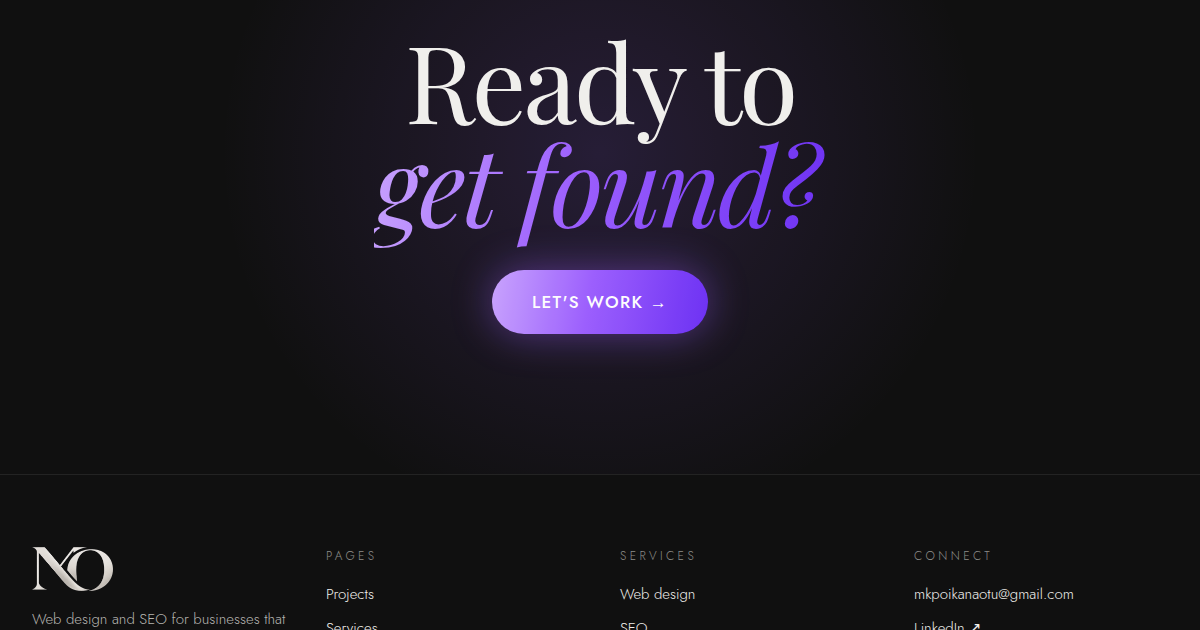
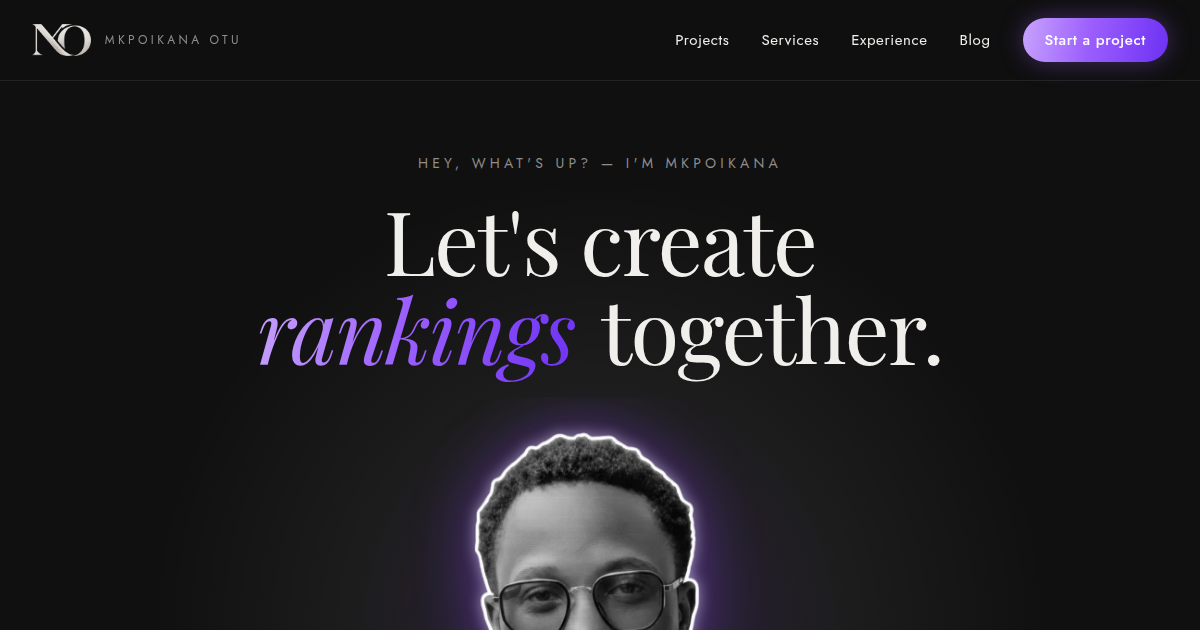
Replace hero portrait with new photo
New transparent cutout served as WebP (73 KB vs 1 MB before), keeping the
black-and-white glow treatment. Also used for the blog author avatar;
link-preview image regenerated.

Claude-Session: https://claude.ai/code/session_01W7bKiPRh1ccaM4XUTsKzTi

diff --git a/blog/click-to-call/index.html b/blog/click-to-call/index.html
@@ -109,7 +109,7 @@ html{scroll-behavior:smooth}
       <p style="font-size:18px;line-height:1.6;font-weight:300;margin:0;color:#C9C8C4;text-wrap:pretty">Web designer and SEO specialist. I build fast, search-ready websites for businesses that run on enquiries.</p>
     </div>
     <div style="order:1;display:flex;justify-content:center;width:100%">
-      <img src="/assets/portrait-cutout.png" alt="Mkpoikana Otu" style="width:100%;max-width:500px;display:block;filter:grayscale(1) contrast(1.08) brightness(1.02);animation:glow 4.5s ease-in-out infinite;-webkit-mask-image:linear-gradient(to bottom,#000 78%,transparent),linear-gradient(to right,transparent,#000 10%,#000 90%,transparent);-webkit-mask-composite:source-in;mask-image:linear-gradient(to bottom,#000 78%,transparent),linear-gradient(to right,transparent,#000 10%,#000 90%,transparent);mask-composite:intersect">
+      <img src="/assets/portrait-mko.webp" alt="Mkpoikana Otu" style="width:100%;max-width:500px;display:block;filter:grayscale(1) contrast(1.08) brightness(1.02);animation:glow 4.5s ease-in-out infinite;-webkit-mask-image:linear-gradient(to bottom,#000 78%,transparent),linear-gradient(to right,transparent,#000 10%,#000 90%,transparent);-webkit-mask-composite:source-in;mask-image:linear-gradient(to bottom,#000 78%,transparent),linear-gradient(to right,transparent,#000 10%,#000 90%,transparent);mask-composite:intersect">
     </div>
     <div style="order:2;max-width:300px;display:flex;flex-direction:column;gap:14px;align-items:{{ sideAlign }};padding-bottom:{{ sidePad2 }};justify-self:{{ rightSelf }}">
       <div style="display:flex;align-items:center;gap:10px;font-size:14px;letter-spacing:.08em;color:#C9C8C4"><span style="width:8px;height:8px;flex-shrink:0;border-radius:50%;background:#B07CFF;box-shadow:0 0 12px #9B5CFF"></span>Available for new projects</div>
@@ -292,7 +292,7 @@ html{scroll-behavior:smooth}
       <sc-if value="{{ p.l }}" hint-placeholder-val="{{ false }}"><ul style="margin:0;padding-left:1.2em;display:flex;flex-direction:column;gap:12px;font-size:19px;line-height:1.7;font-weight:300;color:#D6D5D1"><sc-for list="{{ p.l }}" as="li"><li style="padding-left:.3em">{{ li }}</li></sc-for></ul></sc-if>
     </sc-for>
     <div style="display:flex;align-items:center;gap:16px;padding-top:32px;margin-top:16px;border-top:1px solid #2A2A28">
-      <div style="width:52px;height:52px;border-radius:50%;background:#1A1A1A;border:1px solid #3A3A38;overflow:hidden"><img src="/assets/portrait-cutout.png" alt="" style="width:100%;height:100%;object-fit:cover;object-position:top;filter:grayscale(1)"></div>
+      <div style="width:52px;height:52px;border-radius:50%;background:#1A1A1A;border:1px solid #3A3A38;overflow:hidden"><img src="/assets/portrait-mko.webp" alt="" style="width:100%;height:100%;object-fit:cover;object-position:top;filter:grayscale(1)"></div>
       <div><div style="font-size:17px;font-weight:500">Mkpoikana Otu</div><div style="font-size:14px;color:#8C8C88">Web design & SEO</div></div>
     </div>
   </article>

diff --git a/blog/five-things-every-homepage-needs-above-the-fold/index.html b/blog/five-things-every-homepage-needs-above-the-fold/index.html
@@ -109,7 +109,7 @@ html{scroll-behavior:smooth}
       <p style="font-size:18px;line-height:1.6;font-weight:300;margin:0;color:#C9C8C4;text-wrap:pretty">Web designer and SEO specialist. I build fast, search-ready websites for businesses that run on enquiries.</p>
     </div>
     <div style="order:1;display:flex;justify-content:center;width:100%">
-      <img src="/assets/portrait-cutout.png" alt="Mkpoikana Otu" style="width:100%;max-width:500px;display:block;filter:grayscale(1) contrast(1.08) brightness(1.02);animation:glow 4.5s ease-in-out infinite;-webkit-mask-image:linear-gradient(to bottom,#000 78%,transparent),linear-gradient(to right,transparent,#000 10%,#000 90%,transparent);-webkit-mask-composite:source-in;mask-image:linear-gradient(to bottom,#000 78%,transparent),linear-gradient(to right,transparent,#000 10%,#000 90%,transparent);mask-composite:intersect">
+      <img src="/assets/portrait-mko.webp" alt="Mkpoikana Otu" style="width:100%;max-width:500px;display:block;filter:grayscale(1) contrast(1.08) brightness(1.02);animation:glow 4.5s ease-in-out infinite;-webkit-mask-image:linear-gradient(to bottom,#000 78%,transparent),linear-gradient(to right,transparent,#000 10%,#000 90%,transparent);-webkit-mask-composite:source-in;mask-image:linear-gradient(to bottom,#000 78%,transparent),linear-gradient(to right,transparent,#000 10%,#000 90%,transparent);mask-composite:intersect">
     </div>
     <div style="order:2;max-width:300px;display:flex;flex-direction:column;gap:14px;align-items:{{ sideAlign }};padding-bottom:{{ sidePad2 }};justify-self:{{ rightSelf }}">
       <div style="display:flex;align-items:center;gap:10px;font-size:14px;letter-spacing:.08em;color:#C9C8C4"><span style="width:8px;height:8px;flex-shrink:0;border-radius:50%;background:#B07CFF;box-shadow:0 0 12px #9B5CFF"></span>Available for new projects</div>
@@ -292,7 +292,7 @@ html{scroll-behavior:smooth}
       <sc-if value="{{ p.l }}" hint-placeholder-val="{{ false }}"><ul style="margin:0;padding-left:1.2em;display:flex;flex-direction:column;gap:12px;font-size:19px;line-height:1.7;font-weight:300;color:#D6D5D1"><sc-for list="{{ p.l }}" as="li"><li style="padding-left:.3em">{{ li }}</li></sc-for></ul></sc-if>
     </sc-for>
     <div style="display:flex;align-items:center;gap:16px;padding-top:32px;margin-top:16px;border-top:1px solid #2A2A28">
-      <div style="width:52px;height:52px;border-radius:50%;background:#1A1A1A;border:1px solid #3A3A38;overflow:hidden"><img src="/assets/portrait-cutout.png" alt="" style="width:100%;height:100%;object-fit:cover;object-position:top;filter:grayscale(1)"></div>
+      <div style="width:52px;height:52px;border-radius:50%;background:#1A1A1A;border:1px solid #3A3A38;overflow:hidden"><img src="/assets/portrait-mko.webp" alt="" style="width:100%;height:100%;object-fit:cover;object-position:top;filter:grayscale(1)"></div>
       <div><div style="font-size:17px;font-weight:500">Mkpoikana Otu</div><div style="font-size:14px;color:#8C8C88">Web design & SEO</div></div>
     </div>
   </article>

diff --git a/blog/how-i-plan-a-website-before-opening-figma/index.html b/blog/how-i-plan-a-website-before-opening-figma/index.html
@@ -109,7 +109,7 @@ html{scroll-behavior:smooth}
       <p style="font-size:18px;line-height:1.6;font-weight:300;margin:0;color:#C9C8C4;text-wrap:pretty">Web designer and SEO specialist. I build fast, search-ready websites for businesses that run on enquiries.</p>
     </div>
     <div style="order:1;display:flex;justify-content:center;width:100%">
-      <img src="/assets/portrait-cutout.png" alt="Mkpoikana Otu" style="width:100%;max-width:500px;display:block;filter:grayscale(1) contrast(1.08) brightness(1.02);animation:glow 4.5s ease-in-out infinite;-webkit-mask-image:linear-gradient(to bottom,#000 78%,transparent),linear-gradient(to right,transparent,#000 10%,#000 90%,transparent);-webkit-mask-composite:source-in;mask-image:linear-gradient(to bottom,#000 78%,transparent),linear-gradient(to right,transparent,#000 10%,#000 90%,transparent);mask-composite:intersect">
+      <img src="/assets/portrait-mko.webp" alt="Mkpoikana Otu" style="width:100%;max-width:500px;display:block;filter:grayscale(1) contrast(1.08) brightness(1.02);animation:glow 4.5s ease-in-out infinite;-webkit-mask-image:linear-gradient(to bottom,#000 78%,transparent),linear-gradient(to right,transparent,#000 10%,#000 90%,transparent);-webkit-mask-composite:source-in;mask-image:linear-gradient(to bottom,#000 78%,transparent),linear-gradient(to right,transparent,#000 10%,#000 90%,transparent);mask-composite:intersect">
     </div>
     <div style="order:2;max-width:300px;display:flex;flex-direction:column;gap:14px;align-items:{{ sideAlign }};padding-bottom:{{ sidePad2 }};justify-self:{{ rightSelf }}">
       <div style="display:flex;align-items:center;gap:10px;font-size:14px;letter-spacing:.08em;color:#C9C8C4"><span style="width:8px;height:8px;flex-shrink:0;border-radius:50%;background:#B07CFF;box-shadow:0 0 12px #9B5CFF"></span>Available for new projects</div>
@@ -292,7 +292,7 @@ html{scroll-behavior:smooth}
       <sc-if value="{{ p.l }}" hint-placeholder-val="{{ false }}"><ul style="margin:0;padding-left:1.2em;display:flex;flex-direction:column;gap:12px;font-size:19px;line-height:1.7;font-weight:300;color:#D6D5D1"><sc-for list="{{ p.l }}" as="li"><li style="padding-left:.3em">{{ li }}</li></sc-for></ul></sc-if>
     </sc-for>
     <div style="display:flex;align-items:center;gap:16px;padding-top:32px;margin-top:16px;border-top:1px solid #2A2A28">
-      <div style="width:52px;height:52px;border-radius:50%;background:#1A1A1A;border:1px solid #3A3A38;overflow:hidden"><img src="/assets/portrait-cutout.png" alt="" style="width:100%;height:100%;object-fit:cover;object-position:top;filter:grayscale(1)"></div>
+      <div style="width:52px;height:52px;border-radius:50%;background:#1A1A1A;border:1px solid #3A3A38;overflow:hidden"><img src="/assets/portrait-mko.webp" alt="" style="width:100%;height:100%;object-fit:cover;object-position:top;filter:grayscale(1)"></div>
       <div><div style="font-size:17px;font-weight:500">Mkpoikana Otu</div><div style="font-size:14px;color:#8C8C88">Web design & SEO</div></div>
     </div>
   </article>

diff --git a/blog/index.html b/blog/index.html
@@ -105,7 +105,7 @@ html{scroll-behavior:smooth}
       <p style="font-size:18px;line-height:1.6;font-weight:300;margin:0;color:#C9C8C4;text-wrap:pretty">Web designer and SEO specialist. I build fast, search-ready websites for businesses that run on enquiries.</p>
     </div>
     <div style="order:1;display:flex;justify-content:center;width:100%">
-      <img src="/assets/portrait-cutout.png" alt="Mkpoikana Otu" style="width:100%;max-width:500px;display:block;filter:grayscale(1) contrast(1.08) brightness(1.02);animation:glow 4.5s ease-in-out infinite;-webkit-mask-image:linear-gradient(to bottom,#000 78%,transparent),linear-gradient(to right,transparent,#000 10%,#000 90%,transparent);-webkit-mask-composite:source-in;mask-image:linear-gradient(to bottom,#000 78%,transparent),linear-gradient(to right,transparent,#000 10%,#000 90%,transparent);mask-composite:intersect">
+      <img src="/assets/portrait-mko.webp" alt="Mkpoikana Otu" style="width:100%;max-width:500px;display:block;filter:grayscale(1) contrast(1.08) brightness(1.02);animation:glow 4.5s ease-in-out infinite;-webkit-mask-image:linear-gradient(to bottom,#000 78%,transparent),linear-gradient(to right,transparent,#000 10%,#000 90%,transparent);-webkit-mask-composite:source-in;mask-image:linear-gradient(to bottom,#000 78%,transparent),linear-gradient(to right,transparent,#000 10%,#000 90%,transparent);mask-composite:intersect">
     </div>
     <div style="order:2;max-width:300px;display:flex;flex-direction:column;gap:14px;align-items:{{ sideAlign }};padding-bottom:{{ sidePad2 }};justify-self:{{ rightSelf }}">
       <div style="display:flex;align-items:center;gap:10px;font-size:14px;letter-spacing:.08em;color:#C9C8C4"><span style="width:8px;height:8px;flex-shrink:0;border-radius:50%;background:#B07CFF;box-shadow:0 0 12px #9B5CFF"></span>Available for new projects</div>
@@ -288,7 +288,7 @@ html{scroll-behavior:smooth}
       <sc-if value="{{ p.l }}" hint-placeholder-val="{{ false }}"><ul style="margin:0;padding-left:1.2em;display:flex;flex-direction:column;gap:12px;font-size:19px;line-height:1.7;font-weight:300;color:#D6D5D1"><sc-for list="{{ p.l }}" as="li"><li style="padding-left:.3em">{{ li }}</li></sc-for></ul></sc-if>
     </sc-for>
     <div style="display:flex;align-items:center;gap:16px;padding-top:32px;margin-top:16px;border-top:1px solid #2A2A28">
-      <div style="width:52px;height:52px;border-radius:50%;background:#1A1A1A;border:1px solid #3A3A38;overflow:hidden"><img src="/assets/portrait-cutout.png" alt="" style="width:100%;height:100%;object-fit:cover;object-position:top;filter:grayscale(1)"></div>
+      <div style="width:52px;height:52px;border-radius:50%;background:#1A1A1A;border:1px solid #3A3A38;overflow:hidden"><img src="/assets/portrait-mko.webp" alt="" style="width:100%;height:100%;object-fit:cover;object-position:top;filter:grayscale(1)"></div>
       <div><div style="font-size:17px;font-weight:500">Mkpoikana Otu</div><div style="font-size:14px;color:#8C8C88">Web design & SEO</div></div>
     </div>
   </article>

diff --git a/blog/is-seo-a-one-time-thing/index.html b/blog/is-seo-a-one-time-thing/index.html
@@ -109,7 +109,7 @@ html{scroll-behavior:smooth}
       <p style="font-size:18px;line-height:1.6;font-weight:300;margin:0;color:#C9C8C4;text-wrap:pretty">Web designer and SEO specialist. I build fast, search-ready websites for businesses that run on enquiries.</p>
     </div>
     <div style="order:1;display:flex;justify-content:center;width:100%">
-      <img src="/assets/portrait-cutout.png" alt="Mkpoikana Otu" style="width:100%;max-width:500px;display:block;filter:grayscale(1) contrast(1.08) brightness(1.02);animation:glow 4.5s ease-in-out infinite;-webkit-mask-image:linear-gradient(to bottom,#000 78%,transparent),linear-gradient(to right,transparent,#000 10%,#000 90%,transparent);-webkit-mask-composite:source-in;mask-image:linear-gradient(to bottom,#000 78%,transparent),linear-gradient(to right,transparent,#000 10%,#000 90%,transparent);mask-composite:intersect">
+      <img src="/assets/portrait-mko.webp" alt="Mkpoikana Otu" style="width:100%;max-width:500px;display:block;filter:grayscale(1) contrast(1.08) brightness(1.02);animation:glow 4.5s ease-in-out infinite;-webkit-mask-image:linear-gradient(to bottom,#000 78%,transparent),linear-gradient(to right,transparent,#000 10%,#000 90%,transparent);-webkit-mask-composite:source-in;mask-image:linear-gradient(to bottom,#000 78%,transparent),linear-gradient(to right,transparent,#000 10%,#000 90%,transparent);mask-composite:intersect">
     </div>
     <div style="order:2;max-width:300px;display:flex;flex-direction:column;gap:14px;align-items:{{ sideAlign }};padding-bottom:{{ sidePad2 }};justify-self:{{ rightSelf }}">
       <div style="display:flex;align-items:center;gap:10px;font-size:14px;letter-spacing:.08em;color:#C9C8C4"><span style="width:8px;height:8px;flex-shrink:0;border-radius:50%;background:#B07CFF;box-shadow:0 0 12px #9B5CFF"></span>Available for new projects</div>
@@ -292,7 +292,7 @@ html{scroll-behavior:smooth}
       <sc-if value="{{ p.l }}" hint-placeholder-val="{{ false }}"><ul style="margin:0;padding-left:1.2em;display:flex;flex-direction:column;gap:12px;font-size:19px;line-height:1.7;font-weight:300;color:#D6D5D1"><sc-for list="{{ p.l }}" as="li"><li style="padding-left:.3em">{{ li }}</li></sc-for></ul></sc-if>
     </sc-for>
     <div style="display:flex;align-items:center;gap:16px;padding-top:32px;margin-top:16px;border-top:1px solid #2A2A28">
-      <div style="width:52px;height:52px;border-radius:50%;background:#1A1A1A;border:1px solid #3A3A38;overflow:hidden"><img src="/assets/portrait-cutout.png" alt="" style="width:100%;height:100%;object-fit:cover;object-position:top;filter:grayscale(1)"></div>
+      <div style="width:52px;height:52px;border-radius:50%;background:#1A1A1A;border:1px solid #3A3A38;overflow:hidden"><img src="/assets/portrait-mko.webp" alt="" style="width:100%;height:100%;object-fit:cover;object-position:top;filter:grayscale(1)"></div>
       <div><div style="font-size:17px;font-weight:500">Mkpoikana Otu</div><div style="font-size:14px;color:#8C8C88">Web design & SEO</div></div>
     </div>
   </article>

diff --git a/blog/schema-markup-explained-without-the-jargon/index.html b/blog/schema-markup-explained-without-the-jargon/index.html
@@ -109,7 +109,7 @@ html{scroll-behavior:smooth}
       <p style="font-size:18px;line-height:1.6;font-weight:300;margin:0;color:#C9C8C4;text-wrap:pretty">Web designer and SEO specialist. I build fast, search-ready websites for businesses that run on enquiries.</p>
     </div>
     <div style="order:1;display:flex;justify-content:center;width:100%">
-      <img src="/assets/portrait-cutout.png" alt="Mkpoikana Otu" style="width:100%;max-width:500px;display:block;filter:grayscale(1) contrast(1.08) brightness(1.02);animation:glow 4.5s ease-in-out infinite;-webkit-mask-image:linear-gradient(to bottom,#000 78%,transparent),linear-gradient(to right,transparent,#000 10%,#000 90%,transparent);-webkit-mask-composite:source-in;mask-image:linear-gradient(to bottom,#000 78%,transparent),linear-gradient(to right,transparent,#000 10%,#000 90%,transparent);mask-composite:intersect">
+      <img src="/assets/portrait-mko.webp" alt="Mkpoikana Otu" style="width:100%;max-width:500px;display:block;filter:grayscale(1) contrast(1.08) brightness(1.02);animation:glow 4.5s ease-in-out infinite;-webkit-mask-image:linear-gradient(to bottom,#000 78%,transparent),linear-gradient(to right,transparent,#000 10%,#000 90%,transparent);-webkit-mask-composite:source-in;mask-image:linear-gradient(to bottom,#000 78%,transparent),linear-gradient(to right,transparent,#000 10%,#000 90%,transparent);mask-composite:intersect">
     </div>
     <div style="order:2;max-width:300px;display:flex;flex-direction:column;gap:14px;align-items:{{ sideAlign }};padding-bottom:{{ sidePad2 }};justify-self:{{ rightSelf }}">
       <div style="display:flex;align-items:center;gap:10px;font-size:14px;letter-spacing:.08em;color:#C9C8C4"><span style="width:8px;height:8px;flex-shrink:0;border-radius:50%;background:#B07CFF;box-shadow:0 0 12px #9B5CFF"></span>Available for new projects</div>
@@ -292,7 +292,7 @@ html{scroll-behavior:smooth}
       <sc-if value="{{ p.l }}" hint-placeholder-val="{{ false }}"><ul style="margin:0;padding-left:1.2em;display:flex;flex-direction:column;gap:12px;font-size:19px;line-height:1.7;font-weight:300;color:#D6D5D1"><sc-for list="{{ p.l }}" as="li"><li style="padding-left:.3em">{{ li }}</li></sc-for></ul></sc-if>
     </sc-for>
     <div style="display:flex;align-items:center;gap:16px;padding-top:32px;margin-top:16px;border-top:1px solid #2A2A28">
-      <div style="width:52px;height:52px;border-radius:50%;background:#1A1A1A;border:1px solid #3A3A38;overflow:hidden"><img src="/assets/portrait-cutout.png" alt="" style="width:100%;height:100%;object-fit:cover;object-position:top;filter:grayscale(1)"></div>
+      <div style="width:52px;height:52px;border-radius:50%;background:#1A1A1A;border:1px solid #3A3A38;overflow:hidden"><img src="/assets/portrait-mko.webp" alt="" style="width:100%;height:100%;object-fit:cover;object-position:top;filter:grayscale(1)"></div>
       <div><div style="font-size:17px;font-weight:500">Mkpoikana Otu</div><div style="font-size:14px;color:#8C8C88">Web design & SEO</div></div>
     </div>
   </article>

diff --git a/blog/speed-is-a-design-decision/index.html b/blog/speed-is-a-design-decision/index.html
@@ -109,7 +109,7 @@ html{scroll-behavior:smooth}
       <p style="font-size:18px;line-height:1.6;font-weight:300;margin:0;color:#C9C8C4;text-wrap:pretty">Web designer and SEO specialist. I build fast, search-ready websites for businesses that run on enquiries.</p>
     </div>
     <div style="order:1;display:flex;justify-content:center;width:100%">
-      <img src="/assets/portrait-cutout.png" alt="Mkpoikana Otu" style="width:100%;max-width:500px;display:block;filter:grayscale(1) contrast(1.08) brightness(1.02);animation:glow 4.5s ease-in-out infinite;-webkit-mask-image:linear-gradient(to bottom,#000 78%,transparent),linear-gradient(to right,transparent,#000 10%,#000 90%,transparent);-webkit-mask-composite:source-in;mask-image:linear-gradient(to bottom,#000 78%,transparent),linear-gradient(to right,transparent,#000 10%,#000 90%,transparent);mask-composite:intersect">
+      <img src="/assets/portrait-mko.webp" alt="Mkpoikana Otu" style="width:100%;max-width:500px;display:block;filter:grayscale(1) contrast(1.08) brightness(1.02);animation:glow 4.5s ease-in-out infinite;-webkit-mask-image:linear-gradient(to bottom,#000 78%,transparent),linear-gradient(to right,transparent,#000 10%,#000 90%,transparent);-webkit-mask-composite:source-in;mask-image:linear-gradient(to bottom,#000 78%,transparent),linear-gradient(to right,transparent,#000 10%,#000 90%,transparent);mask-composite:intersect">
     </div>
     <div style="order:2;max-width:300px;display:flex;flex-direction:column;gap:14px;align-items:{{ sideAlign }};padding-bottom:{{ sidePad2 }};justify-self:{{ rightSelf }}">
       <div style="display:flex;align-items:center;gap:10px;font-size:14px;letter-spacing:.08em;color:#C9C8C4"><span style="width:8px;height:8px;flex-shrink:0;border-radius:50%;background:#B07CFF;box-shadow:0 0 12px #9B5CFF"></span>Available for new projects</div>
@@ -292,7 +292,7 @@ html{scroll-behavior:smooth}
       <sc-if value="{{ p.l }}" hint-placeholder-val="{{ false }}"><ul style="margin:0;padding-left:1.2em;display:flex;flex-direction:column;gap:12px;font-size:19px;line-height:1.7;font-weight:300;color:#D6D5D1"><sc-for list="{{ p.l }}" as="li"><li style="padding-left:.3em">{{ li }}</li></sc-for></ul></sc-if>
     </sc-for>
     <div style="display:flex;align-items:center;gap:16px;padding-top:32px;margin-top:16px;border-top:1px solid #2A2A28">
-      <div style="width:52px;height:52px;border-radius:50%;background:#1A1A1A;border:1px solid #3A3A38;overflow:hidden"><img src="/assets/portrait-cutout.png" alt="" style="width:100%;height:100%;object-fit:cover;object-position:top;filter:grayscale(1)"></div>
+      <div style="width:52px;height:52px;border-radius:50%;background:#1A1A1A;border:1px solid #3A3A38;overflow:hidden"><img src="/assets/portrait-mko.webp" alt="" style="width:100%;height:100%;object-fit:cover;object-position:top;filter:grayscale(1)"></div>
       <div><div style="font-size:17px;font-weight:500">Mkpoikana Otu</div><div style="font-size:14px;color:#8C8C88">Web design & SEO</div></div>
     </div>
   </article>

diff --git a/blog/what-makes-a-service-page-rank/index.html b/blog/what-makes-a-service-page-rank/index.html
@@ -109,7 +109,7 @@ html{scroll-behavior:smooth}
       <p style="font-size:18px;line-height:1.6;font-weight:300;margin:0;color:#C9C8C4;text-wrap:pretty">Web designer and SEO specialist. I build fast, search-ready websites for businesses that run on enquiries.</p>
     </div>
     <div style="order:1;display:flex;justify-content:center;width:100%">
-      <img src="/assets/portrait-cutout.png" alt="Mkpoikana Otu" style="width:100%;max-width:500px;display:block;filter:grayscale(1) contrast(1.08) brightness(1.02);animation:glow 4.5s ease-in-out infinite;-webkit-mask-image:linear-gradient(to bottom,#000 78%,transparent),linear-gradient(to right,transparent,#000 10%,#000 90%,transparent);-webkit-mask-composite:source-in;mask-image:linear-gradient(to bottom,#000 78%,transparent),linear-gradient(to right,transparent,#000 10%,#000 90%,transparent);mask-composite:intersect">
+      <img src="/assets/portrait-mko.webp" alt="Mkpoikana Otu" style="width:100%;max-width:500px;display:block;filter:grayscale(1) contrast(1.08) brightness(1.02);animation:glow 4.5s ease-in-out infinite;-webkit-mask-image:linear-gradient(to bottom,#000 78%,transparent),linear-gradient(to right,transparent,#000 10%,#000 90%,transparent);-webkit-mask-composite:source-in;mask-image:linear-gradient(to bottom,#000 78%,transparent),linear-gradient(to right,transparent,#000 10%,#000 90%,transparent);mask-composite:intersect">
     </div>
     <div style="order:2;max-width:300px;display:flex;flex-direction:column;gap:14px;align-items:{{ sideAlign }};padding-bottom:{{ sidePad2 }};justify-self:{{ rightSelf }}">
       <div style="display:flex;align-items:center;gap:10px;font-size:14px;letter-spacing:.08em;color:#C9C8C4"><span style="width:8px;height:8px;flex-shrink:0;border-radius:50%;background:#B07CFF;box-shadow:0 0 12px #9B5CFF"></span>Available for new projects</div>
@@ -292,7 +292,7 @@ html{scroll-behavior:smooth}
       <sc-if value="{{ p.l }}" hint-placeholder-val="{{ false }}"><ul style="margin:0;padding-left:1.2em;display:flex;flex-direction:column;gap:12px;font-size:19px;line-height:1.7;font-weight:300;color:#D6D5D1"><sc-for list="{{ p.l }}" as="li"><li style="padding-left:.3em">{{ li }}</li></sc-for></ul></sc-if>
     </sc-for>
     <div style="display:flex;align-items:center;gap:16px;padding-top:32px;margin-top:16px;border-top:1px solid #2A2A28">
-      <div style="width:52px;height:52px;border-radius:50%;background:#1A1A1A;border:1px solid #3A3A38;overflow:hidden"><img src="/assets/portrait-cutout.png" alt="" style="width:100%;height:100%;object-fit:cover;object-position:top;filter:grayscale(1)"></div>
+      <div style="width:52px;height:52px;border-radius:50%;background:#1A1A1A;border:1px solid #3A3A38;overflow:hidden"><img src="/assets/portrait-mko.webp" alt="" style="width:100%;height:100%;object-fit:cover;object-position:top;filter:grayscale(1)"></div>
       <div><div style="font-size:17px;font-weight:500">Mkpoikana Otu</div><div style="font-size:14px;color:#8C8C88">Web design & SEO</div></div>
     </div>
   </article>

diff --git a/index.html b/index.html
@@ -102,7 +102,7 @@ html{scroll-behavior:smooth}
       <p style="font-size:18px;line-height:1.6;font-weight:300;margin:0;color:#C9C8C4;text-wrap:pretty">Web designer and SEO specialist. I build fast, search-ready websites for businesses that run on enquiries.</p>
     </div>
     <div style="order:1;display:flex;justify-content:center;width:100%">
-      <img src="/assets/portrait-cutout.png" alt="Mkpoikana Otu" style="width:100%;max-width:500px;display:block;filter:grayscale(1) contrast(1.08) brightness(1.02);animation:glow 4.5s ease-in-out infinite;-webkit-mask-image:linear-gradient(to bottom,#000 78%,transparent),linear-gradient(to right,transparent,#000 10%,#000 90%,transparent);-webkit-mask-composite:source-in;mask-image:linear-gradient(to bottom,#000 78%,transparent),linear-gradient(to right,transparent,#000 10%,#000 90%,transparent);mask-composite:intersect">
+      <img src="/assets/portrait-mko.webp" alt="Mkpoikana Otu" style="width:100%;max-width:500px;display:block;filter:grayscale(1) contrast(1.08) brightness(1.02);animation:glow 4.5s ease-in-out infinite;-webkit-mask-image:linear-gradient(to bottom,#000 78%,transparent),linear-gradient(to right,transparent,#000 10%,#000 90%,transparent);-webkit-mask-composite:source-in;mask-image:linear-gradient(to bottom,#000 78%,transparent),linear-gradient(to right,transparent,#000 10%,#000 90%,transparent);mask-composite:intersect">
     </div>
     <div style="order:2;max-width:300px;display:flex;flex-direction:column;gap:14px;align-items:{{ sideAlign }};padding-bottom:{{ sidePad2 }};justify-self:{{ rightSelf }}">
       <div style="display:flex;align-items:center;gap:10px;font-size:14px;letter-spacing:.08em;color:#C9C8C4"><span style="width:8px;height:8px;flex-shrink:0;border-radius:50%;background:#B07CFF;box-shadow:0 0 12px #9B5CFF"></span>Available for new projects</div>
@@ -285,7 +285,7 @@ html{scroll-behavior:smooth}
       <sc-if value="{{ p.l }}" hint-placeholder-val="{{ false }}"><ul style="margin:0;padding-left:1.2em;display:flex;flex-direction:column;gap:12px;font-size:19px;line-height:1.7;font-weight:300;color:#D6D5D1"><sc-for list="{{ p.l }}" as="li"><li style="padding-left:.3em">{{ li }}</li></sc-for></ul></sc-if>
     </sc-for>
     <div style="display:flex;align-items:center;gap:16px;padding-top:32px;margin-top:16px;border-top:1px solid #2A2A28">
-      <div style="width:52px;height:52px;border-radius:50%;background:#1A1A1A;border:1px solid #3A3A38;overflow:hidden"><img src="/assets/portrait-cutout.png" alt="" style="width:100%;height:100%;object-fit:cover;object-position:top;filter:grayscale(1)"></div>
+      <div style="width:52px;height:52px;border-radius:50%;background:#1A1A1A;border:1px solid #3A3A38;overflow:hidden"><img src="/assets/portrait-mko.webp" alt="" style="width:100%;height:100%;object-fit:cover;object-position:top;filter:grayscale(1)"></div>
       <div><div style="font-size:17px;font-weight:500">Mkpoikana Otu</div><div style="font-size:14px;color:#8C8C88">Web design & SEO</div></div>
     </div>
   </article>
